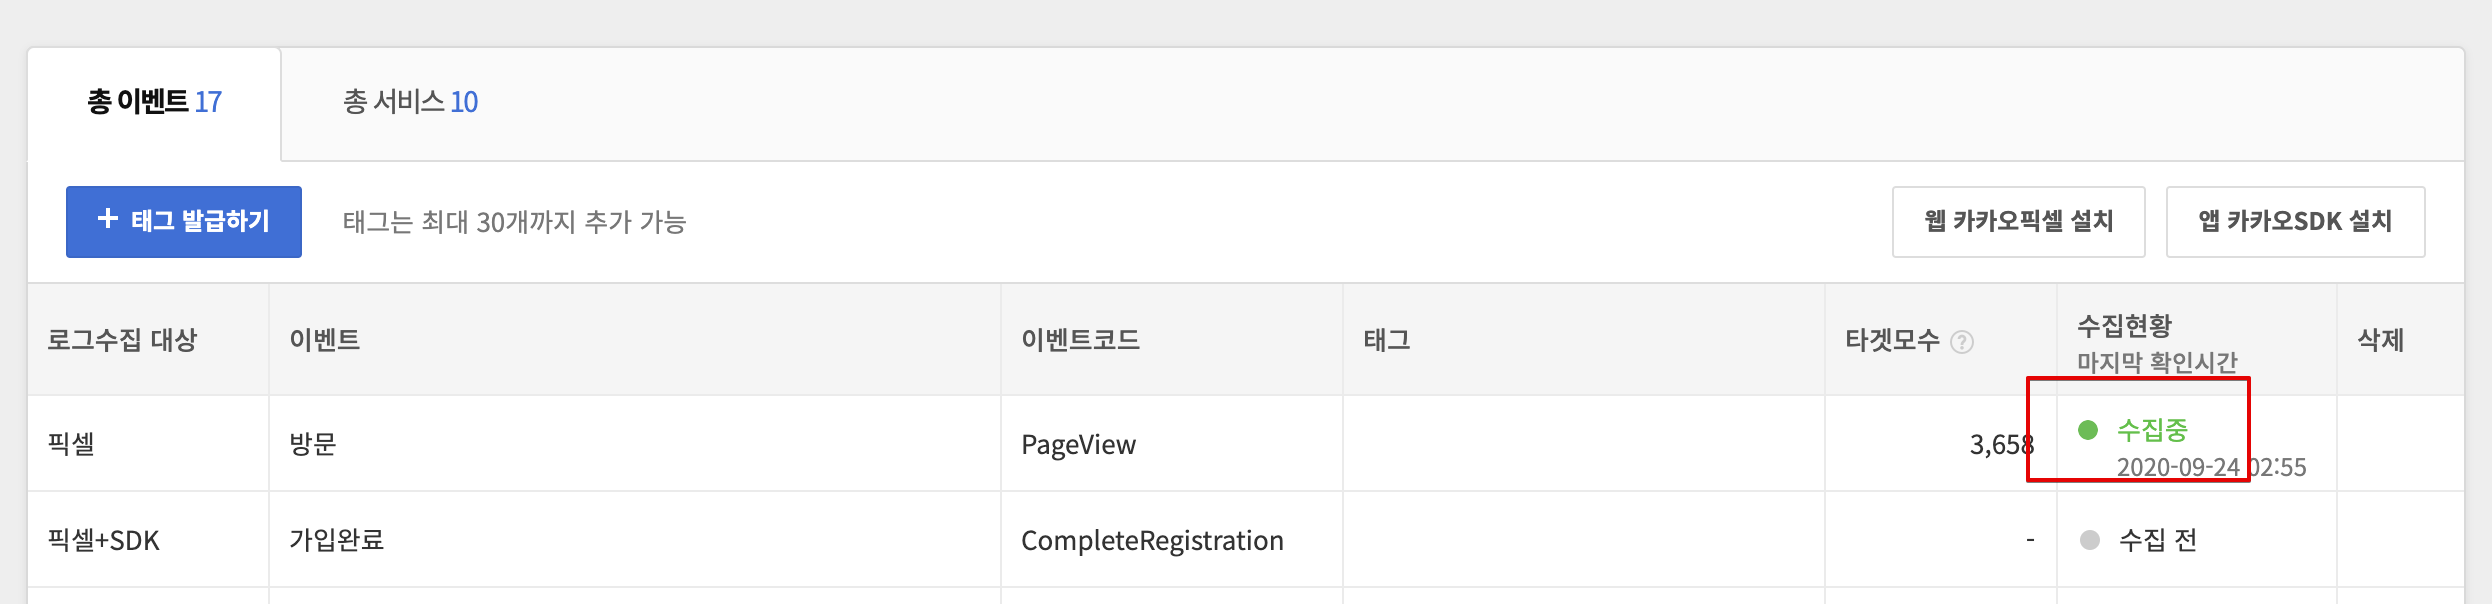
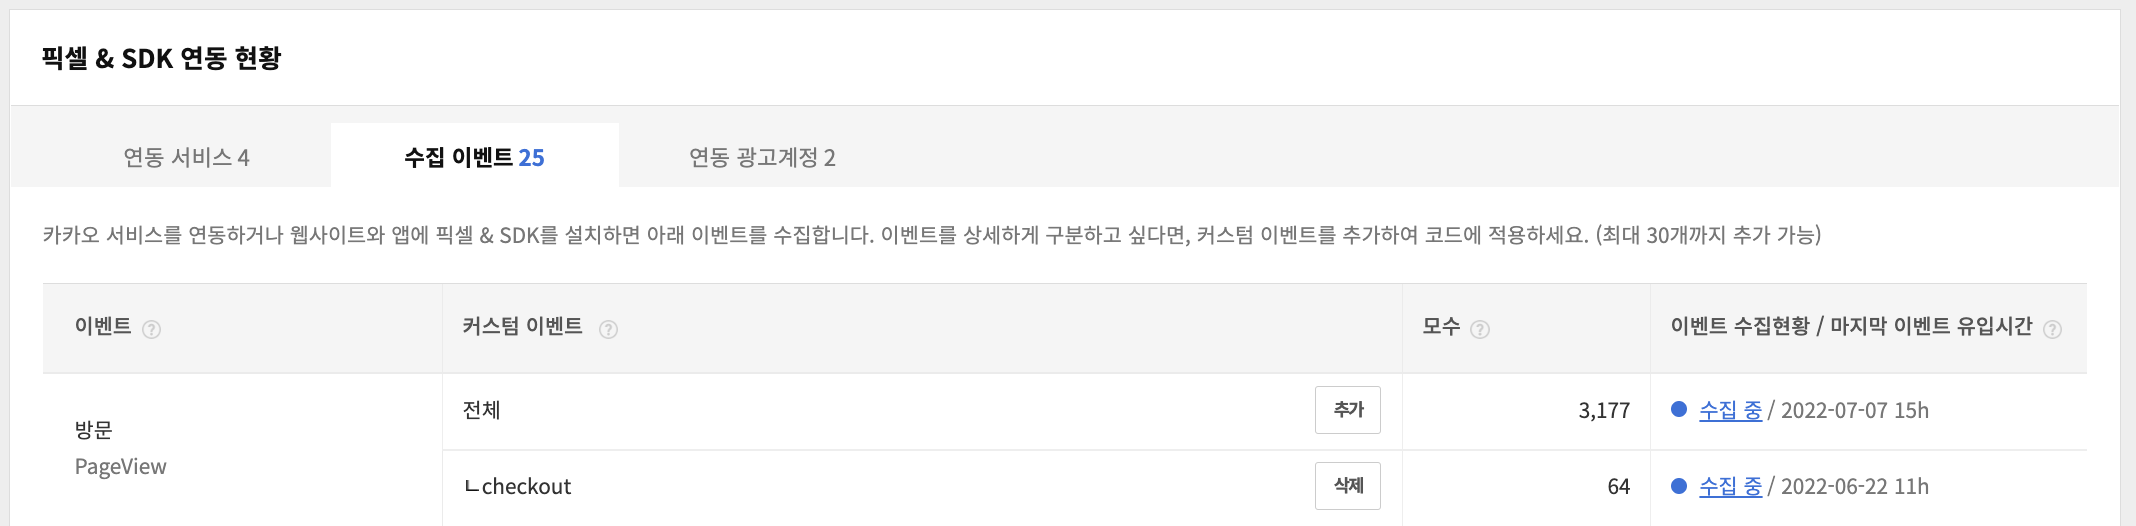
fix: 가이드 내용 수정

diff --git a/docs/pixel-guide.html b/docs/pixel-guide.html
@@ -112,18 +112,18 @@
 
 <h2 id='데이터 전송 확인 방법' class='heading'>데이터 전송 확인 방법</h2>
 <ul>
-<li>픽셀&SDK 관리페이지 내에서 이벤트별 목록 옆에 아래와 같이 "수집중" 이라고 표시되면 정상 데이터가 수집중입니다.</li>
+<li>픽셀 & SDK 연동 현황의 수집 이벤트 탭에서 이벤트별 목록 옆에 아래와 같이 "수집 중" 이라고 표시되면 정상 데이터가 수집 중입니다.</li>
 <img src="collect.png" />
-<li>"수집중" 녹색 텍스트를 클릭하시면 아래와 같이 최근 수집된 100건의 이벤트 목록을 확인할 수 있습니다.</li>
+<li>"수집 중" 파란색 텍스트를 클릭하시면 아래와 같이 현재 수집 중인 이벤트의 최근 이력을 확인할 수 있습니다.</li>
 <img src="collect2.png" />
 </ul>
 
-<h2 id='지원환경' class='heading'>태그 추가</h2>
+<h2 id='지원환경' class='heading'>커스텀 이벤트 추가</h2>
 <ul>
-<li>픽셀&SDK 관리페이지 내에서 "+태그 발급하기" 버튼을 눌러 이벤트 하위에 상세한 추가 설정을 할 수 있습니다.</li>
-<li>태그는 카카오모먼트 광고그룹 내에서 '맞춤타겟 > 내 데이터 > 픽셀&SDK' 항목으로 타겟팅에 사용할 수 있습니다.</li>
-<li>픽셀로 보내는 이벤트에 '태그'를 추가하여 보내는 경우, 이벤트의 타겟모수와 이벤트 하위 태그의 타겟모수에도 함께 포함합니다.</li>
-<li>"+태그 발급하기"로 추가하지 않은 '태그'를 스크립트 내에 추가하여 전송하는 경우, 이벤트의 타겟모수에만 모수로 포함합니다.</li>
+  <li>픽셀 & SDK 연동 현황의 수집 이벤트 탭에서 커스텀 이벤트의 "추가" 버튼을 눌러 이벤트 하위에 상세한 추가 설정을 할 수 있습니다.</li>
+  <li>커스텀 이벤트는 카카오모먼트 광고그룹 내에서 '맞춤타겟 > 내 데이터 > 픽셀 & SDK' 항목으로 타겟팅에 사용할 수 있습니다.</li>
+  <li>픽셀로 보내는 이벤트에 '태그'나 '매개변수'를 추가하여 보내는 경우, 이벤트의 타겟모수와 이벤트 하위 커스텀 이벤트의 타겟모수에도 함께 포함됩니다.</li>
+  <li>커스텀 이벤트 "추가" 버튼으로 추가하지 않은 '태그'나 '매개변수'를 스크립트 내에 추가하여 전송하는 경우, 이벤트의 타겟모수에만 모수로 포함합니다.</li>
 </ul>
 
 

diff --git a/docs/send-page-view-event.html b/docs/send-page-view-event.html
@@ -98,13 +98,13 @@
 </ul>
 
 <h5 class="tab-title" data-tab-name="add-to-cart-request">이벤트만 사용하는 경우</h5>
-<pre class="highlight javascript"><code><xmp><script type="text/javascript" charset="UTF-8" src="//t1.daumcdn.net/adfit/static/kp.js"></script>
+<pre class="highlight javascript"><code><xmp><script type="text/javascript" charset="UTF-8" src="//t1.daumcdn.net/kas/static/kp.js"></script>
 <script type="text/javascript">
       kakaoPixel('Track ID 입력').pageView();
 </script></xmp></code></pre>
 
 <h5 class="tab-title" data-tab-name="add-to-cart-request">태그를 추가하는 경우</h5>
-<pre class="highlight javascript"><code><xmp><script type="text/javascript" charset="UTF-8" src="//t1.daumcdn.net/adfit/static/kp.js"></script>
+<pre class="highlight javascript"><code><xmp><script type="text/javascript" charset="UTF-8" src="//t1.daumcdn.net/kas/static/kp.js"></script>
 <script type="text/javascript">
       kakaoPixel('Track ID 입력').pageView('태그값 입력');
 </script></xmp></code></pre>
